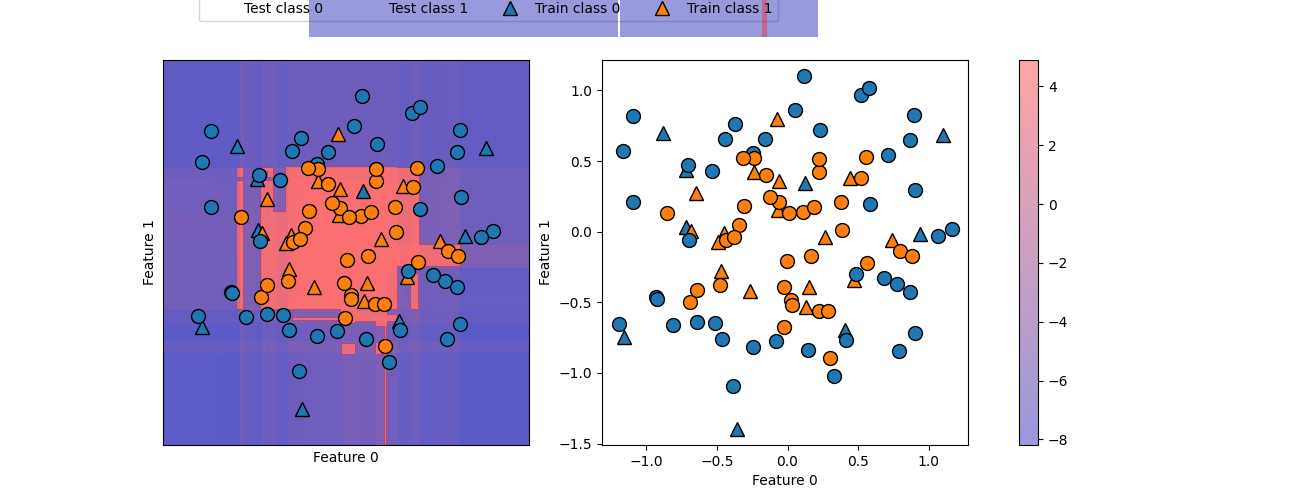
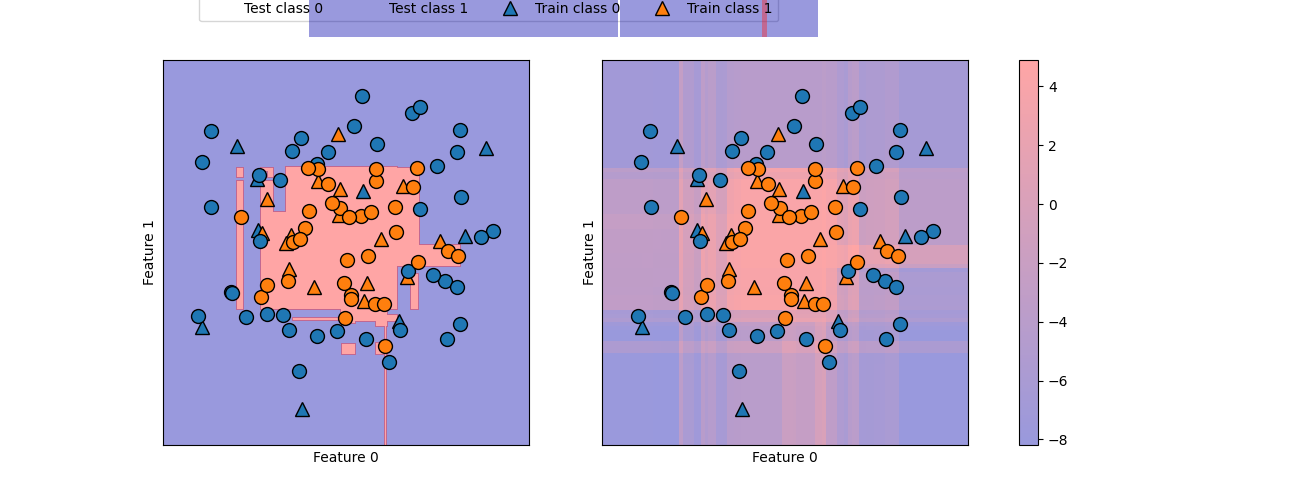
update decision_function.py

diff --git a/decision_function/decision_function.py b/decision_function/decision_function.py
@@ -24,7 +24,7 @@ def execute():
 
     fig, axes = plt.subplots(1, 2, figsize=(13, 5))
     mglearn.plots.plot_2d_separator(gbrt, X, ax=axes[0], alpha=.4, fill=True, cm=mglearn.cm2)
-    scores_image = mglearn.tools.plot_2d_scores(gbrt, X, ax=axes[0], alpha=.4, cm=mglearn.ReBl)
+    scores_image = mglearn.tools.plot_2d_scores(gbrt, X, ax=axes[1], alpha=.4, cm=mglearn.ReBl)
 
     for ax in axes:
         mglearn.discrete_scatter(X_test[:, 0], X_test[:, 1], y_test, markers='^', ax=ax)
@@ -32,6 +32,6 @@ def execute():
         ax.set_xlabel("Feature 0")
         ax.set_ylabel("Feature 1")
 
-    plt.colorbar(scores_image, ax=axes.tolist())
+    cbar = plt.colorbar(scores_image, ax=axes.tolist())
     axes[0].legend(["Test class 0", "Test class 1", "Train class 0", "Train class 1"], ncol=4, loc=(.1, 1.1))
     fig.savefig("decision_function/decision_function.png")
